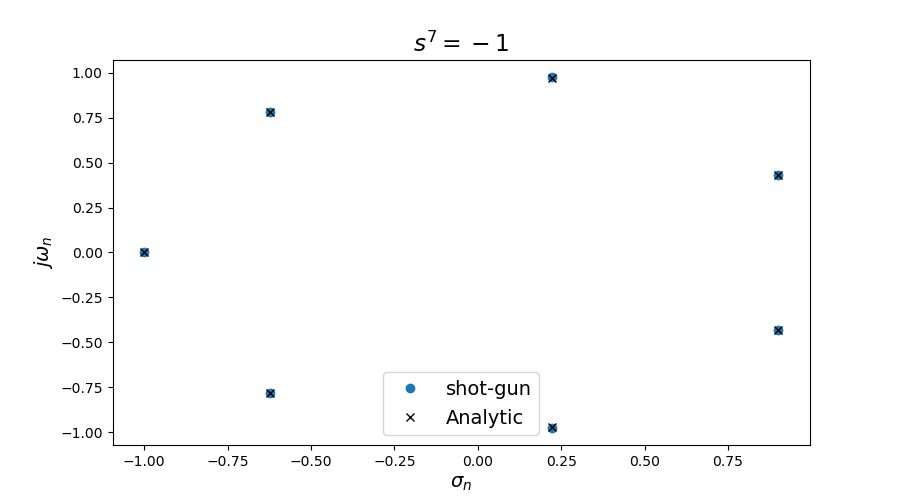
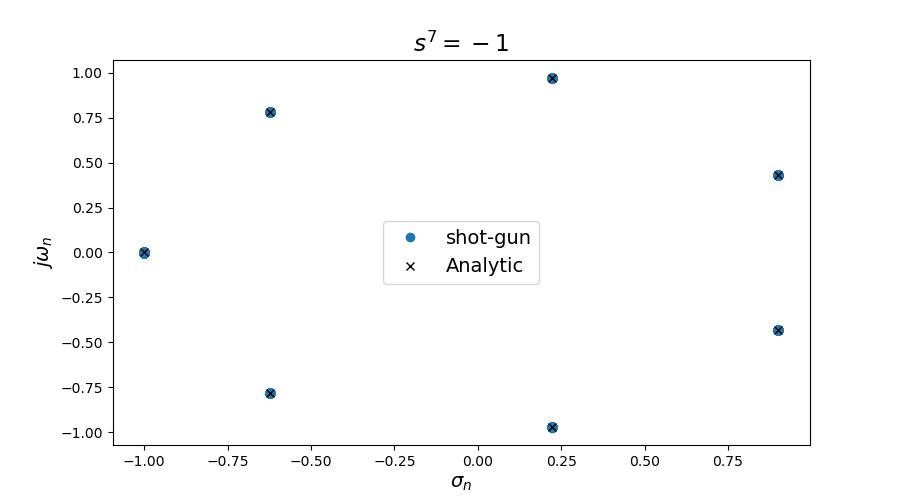
update

diff --git a/Spakozvski_model_II/functions.py b/Spakozvski_model_II/functions.py
@@ -6,7 +6,7 @@ Created on Tue Jan 17 11:21:25 2023
 @author: fneri, TU Delft 
 
 Construction of the matrices needed in the Spakovszky models PhD thesis.
-The n=0 modes are still missing!
+The n=0 mode is still missing!
 """
 
 import numpy as np
@@ -28,6 +28,8 @@ def Tax_n(x,s,theta,n,Vx,Vy):
     Vx : non-dimensional background axial velocity
     Vy : non-dimensional background zimuthal velocity
     """
+    if n==0:
+        raise Exception("Sorry, the n=0 mode is still not implemented. Use n!=0")
     Tax = np.zeros((3,3),dtype = complex)
     Tax[:,0] = np.array([1, 1j, -s/n - Vx -1j*Vy])*np.exp(n*x)*np.exp(1j*n*theta)
     Tax[:,1] = np.array([1, -1j, s/n - Vx +1j*Vy])*np.exp(-n*x)*np.exp(1j*n*theta)
@@ -50,6 +52,8 @@ def Bgap_n(x1,x2,s,theta,n,Vx,Vy):
     Vx : non-dimensional background axial velocity in the gap space
     Vy : non-dimensional background azimuthal velocity in the gap space
     """
+    if n==0:
+        raise Exception("Sorry, the n=0 mode is still not implemented. Use n!=0")
     Bgap = np.zeros((3,3),dtype = complex)
     m1 = Tax_n(x2, s, theta, n, Vx, Vy)
     m2 = np.linalg.inv(Tax_n(x1, s, theta, n, Vx, Vy))
@@ -68,6 +72,9 @@ def Rn(r,r0,n,s,Q,GAMMA):
     Q : source term of the swirling flow
     GAMMA : rotational term of the swirling flow
     """
+    if n==0:
+        raise Exception("Sorry, the n=0 mode is still not implemented. Use n!=0")
+    
     #quad wants a real argument, split the integrand betwee real and complex part
     def integrand_function(x):
         return (np.exp(-(1j*n*GAMMA*np.log(x)/Q) + s*(x**2)/(2*Q))*((r**n)*(x**(-n+1))-(r**(-n))*x**(n+1)))
@@ -110,6 +117,7 @@ def Rn_second_r(r,r0,n,s,Q,GAMMA):
     Q : source term of the swirling flow
     GAMMA : rotational term of the swirling flow
     """
+    
     r_left = r*0.999999
     r_right = r*1.000001
     Rn_right = Rn(r_right,r0,n,s,Q,GAMMA)
@@ -133,6 +141,8 @@ def Trad_n(r,r0,n,s,theta,Q,GAMMA):
     Q : source term of the swirling flow
     GAMMA : rotational term of the swirling flow
     """
+    if n==0:
+        raise Exception("Sorry, the n=0 mode is still not implemented. Use n!=0")
     Trad = np.zeros((3,3),dtype = complex)
     Trad[:,0] = np.array([1j*n*r**(n-1),
                           -n*r**(n-1),
@@ -166,6 +176,8 @@ def Bsta_n(s,theta,n,Vx,Vy1,Vy2, alfa1, alfa2, lambda_s , dLs_dTana, tau_s=0):
     tau_s : unsteadystator loss lag parameter
     dLs_dTana1 : loss derivative
     """
+    if n==0:
+        raise Exception("Sorry, the n=0 mode is still not implemented. Use n!=0")
     Bsta = np.zeros((3,3),dtype = complex)
     Bsta[:,0] = np.array([1, np.tan(alfa2), -lambda_s*s+dLs_dTana*np.tan(alfa1)/
                           (Vx*(1+tau_s*s))-Vy2*np.tan(alfa2)])*np.exp(1j*n*theta)
@@ -194,6 +206,8 @@ def Brot_n(s,theta,n,Vx,Vy1,Vy2,alfa1,beta1,beta2,lambda_r,dLr_dTanb,tau_r=0):
     tau_r : unsteady rotor loss lag parameter
     dLr_dTanb : loss derivative with respect to inlet beta at background operating point
     """
+    if n==0:
+        raise Exception("Sorry, the n=0 mode is still not implemented. Use n!=0")
     Brot = np.zeros((3,3),dtype = complex)
     Brot[:,0] = np.array([1, np.tan(beta2), np.tan(beta2)-np.tan(alfa1)-lambda_r*(s+1j*n)+dLr_dTanb*
                           np.tan(beta1)/(Vx*(1+tau_r*(s+1j*n)))-Vy2*np.tan(beta2)])*np.exp(1j*n*theta)
@@ -224,6 +238,8 @@ def Bimp_n(s,theta,n,Vx1,Vr2,Vy1,Vy2,alfa1,beta1,beta2,r1,r2,rho1,rho2,A1,A2,s_i
     dLi_dTanb : loss derivative with respect to inlet beta at background operating point
     tau_i : unsteady impeller loss lag parameter
     """
+    if n==0:
+        raise Exception("Sorry, the n=0 mode is still not implemented. Use n!=0")
     AR = rho2*A2/(rho1*A1) #aspect ratio
     lambda_i = s_i*AR*np.log(AR)/(AR-1) #inertia parameter
     Bimp = np.zeros((3,3),dtype = complex)
@@ -256,6 +272,8 @@ def Bdif_n(s,theta,n,Vr1,Vr2,Vy1,Vy2,alfa1,beta1,alfa2,r1,r2,rho1,rho2,A1,A2,s_d
     dLd_dTana : loss derivative with respect to inlet alfa at background operating point
     tau_d : unsteady impeller loss lag parameter
     """
+    if n==0:
+        raise Exception("Sorry, the n=0 mode is still not implemented. Use n!=0")
     AR = rho2*A2/(rho1*A1) #aspect ratio
     lambda_dif = s_dif*AR*np.log(AR)/(AR-1) #inertia parameter
     Bdif = np.zeros((3,3),dtype = complex)
@@ -282,6 +300,8 @@ def Bvlsd_n(s,theta,n,r1,r2,r_ref,Q,GAMMA):
     Q : non dimensional source term
     GAMMA : non dimensional rotational term of the potential flow
     """
+    if n==0:
+        raise Exception("Sorry, the n=0 mode is still not implemented. Use n!=0")
     M_2 = Trad_n(r2, r_ref, n, s, theta, Q, GAMMA)
     M_1 = np.linalg.inv(Trad_n(r1, r_ref, n, s, theta, Q, GAMMA))
     Bvlsd = np.matmul(M_2,M_1)*np.exp(1j*n*theta)
@@ -371,11 +391,11 @@ def shot_gun_method2(complex_function, domain, n_grid, n, N=50, tol=1e-6, attemp
     RETURN:
     poles : array of poles
     """
+    if n==0:
+        raise Exception("Sorry, the n=0 mode is still not implemented. Use n!=0")
     print('-----------------------------------------------------------------------')
     print('SHOT GUN METHOD CALLED')
     print('-----------------------------------------------------------------------')
-    
-    
     left_lim = domain[0] #left border of the domain
     right_lim = domain[1] #right border of the domain
     down_lim = domain[2] #lower border

diff --git a/Spakozvski_model_II/jet_wake_perturbations.py b/Spakozvski_model_II/jet_wake_perturbations.py
@@ -32,6 +32,7 @@ theta = np.linspace(0,theta_max,azimuthal_sampling_points) #theta domain
 theta_deg = theta *180/np.pi #theta domain in degrees
 n = 20 #interested in the 20th harmonic, since we are looking at perturbation coming from the 20th harmonics
 theta0 = theta[0]
+omega = -n
 
 #INITIAL CONDITIONS
 Wr_2 = np.exp(1j*n*theta0)
@@ -43,8 +44,8 @@ radii = np.array([1.0,1.05,1.1,1.15,1.2])
 
 r0 = R2 #this is the big problem. no reason for it. there is no way to understand what is its meaning
 #boundary conditions are prescribed inlet velocities, and outlet pressure at R3 = 0
-T2 = Trad_n(R2, r0, n, -1j*n, theta0, Q, GAMMA)
-T3 = Trad_n(R3, r0, n, -1j*n, theta0, Q, GAMMA)
+T2 = Trad_n(R2, r0, n, 1j*omega, theta0, Q, GAMMA)
+T3 = Trad_n(R3, r0, n, 1j*omega, theta0, Q, GAMMA)
 Y = np.zeros((3,3), dtype=complex)
 Y[0,:] = T2[0,:]
 Y[1,:] = T2[1,:]
@@ -56,24 +57,24 @@ BC_vec[2] = 0
 #find the potential and vortical modes in the system that satisfy the BC
 DEN_mode = np.matmul(np.linalg.inv(Y),BC_vec)
 
-# fig, axes = plt.subplots(3,1, figsize=format_fig)
-# axes[0].set_ylabel(r'$\delta w_{r}$')
-# axes[1].set_ylabel(r'$\delta w_{\theta}$')
-# axes[2].set_ylabel(r'$\delta p $')
-# axes[2].set_xlabel(r'$\theta $')
+fig, axes = plt.subplots(3,1, figsize=format_fig)
+axes[0].set_ylabel(r'$\delta w_{r}$')
+axes[1].set_ylabel(r'$\delta w_{\theta}$')
+axes[2].set_ylabel(r'$\delta p $')
+axes[2].set_xlabel(r'$\theta $')
 
-# for k in range(0,len(radii)):
-#     radius = radii[k]
-#     #compute now the flow solutions
-#     vec = np.zeros((3,len(theta)),dtype=complex)
-#     i = 0
-#     for t in theta:
-#         vec[:,i] = np.matmul(Trad_n(radius, r0 , n, -1j*n, t, Q, GAMMA),DEN_mode).reshape(3)
-#         i = i+1       
-#     axes[0].plot(theta_deg, vec[0,:], label='r='+str(radius))
-#     axes[1].plot(theta_deg, vec[1,:])
-#     axes[2].plot(theta_deg, vec[2,:])
-# fig.legend()
+for k in range(0,len(radii)):
+    radius = radii[k]
+    #compute now the flow solutions
+    vec = np.zeros((3,len(theta)),dtype=complex)
+    i = 0
+    for t in theta:
+        vec[:,i] = np.matmul(Trad_n(radius, r0 , n, -1j*n, t, Q, GAMMA),DEN_mode).reshape(3)
+        i = i+1       
+    axes[0].plot(theta_deg, vec[0,:], label='r='+str(radius))
+    axes[1].plot(theta_deg, vec[1,:])
+    axes[2].plot(theta_deg, vec[2,:])
+fig.legend()
 
 #%% VARIATIONS WITH RADIUS
 radii = np.linspace(R2,R3,100)
@@ -84,7 +85,7 @@ axes[2].set_ylabel(r'$\delta p $')
 axes[2].set_xlabel(r'$r $')
 vec = np.zeros((3,len(radii)),dtype=complex)
 for k in range(0,len(radii)):
-    vec[:,k] = np.matmul(Trad_n(radii[k], r0 , n, -1j*n, theta0, Q, GAMMA),DEN_mode).reshape(3)
+    vec[:,k] = np.matmul(Trad_n(radii[k], r0 , n, 1j*omega, theta0, Q, GAMMA),DEN_mode).reshape(3)
 axes[0].plot(radii, vec[0,:],'-o')
 axes[1].plot(radii, vec[1,:],'-o')
 axes[2].plot(radii, vec[2,:],'-o')

diff --git a/Spakozvski_model_II/main_debug.py b/Spakozvski_model_II/main_debug.py
@@ -104,7 +104,7 @@ def test_function(s,n):
 
 
 domain = [-2,2,-2,2]
-grid = [3,3]
+grid = [2,2]
 poles_analytic = []
 plt.figure(figsize=format_fig)
 poles = shot_gun_method2(test_function, domain, grid, 1)
